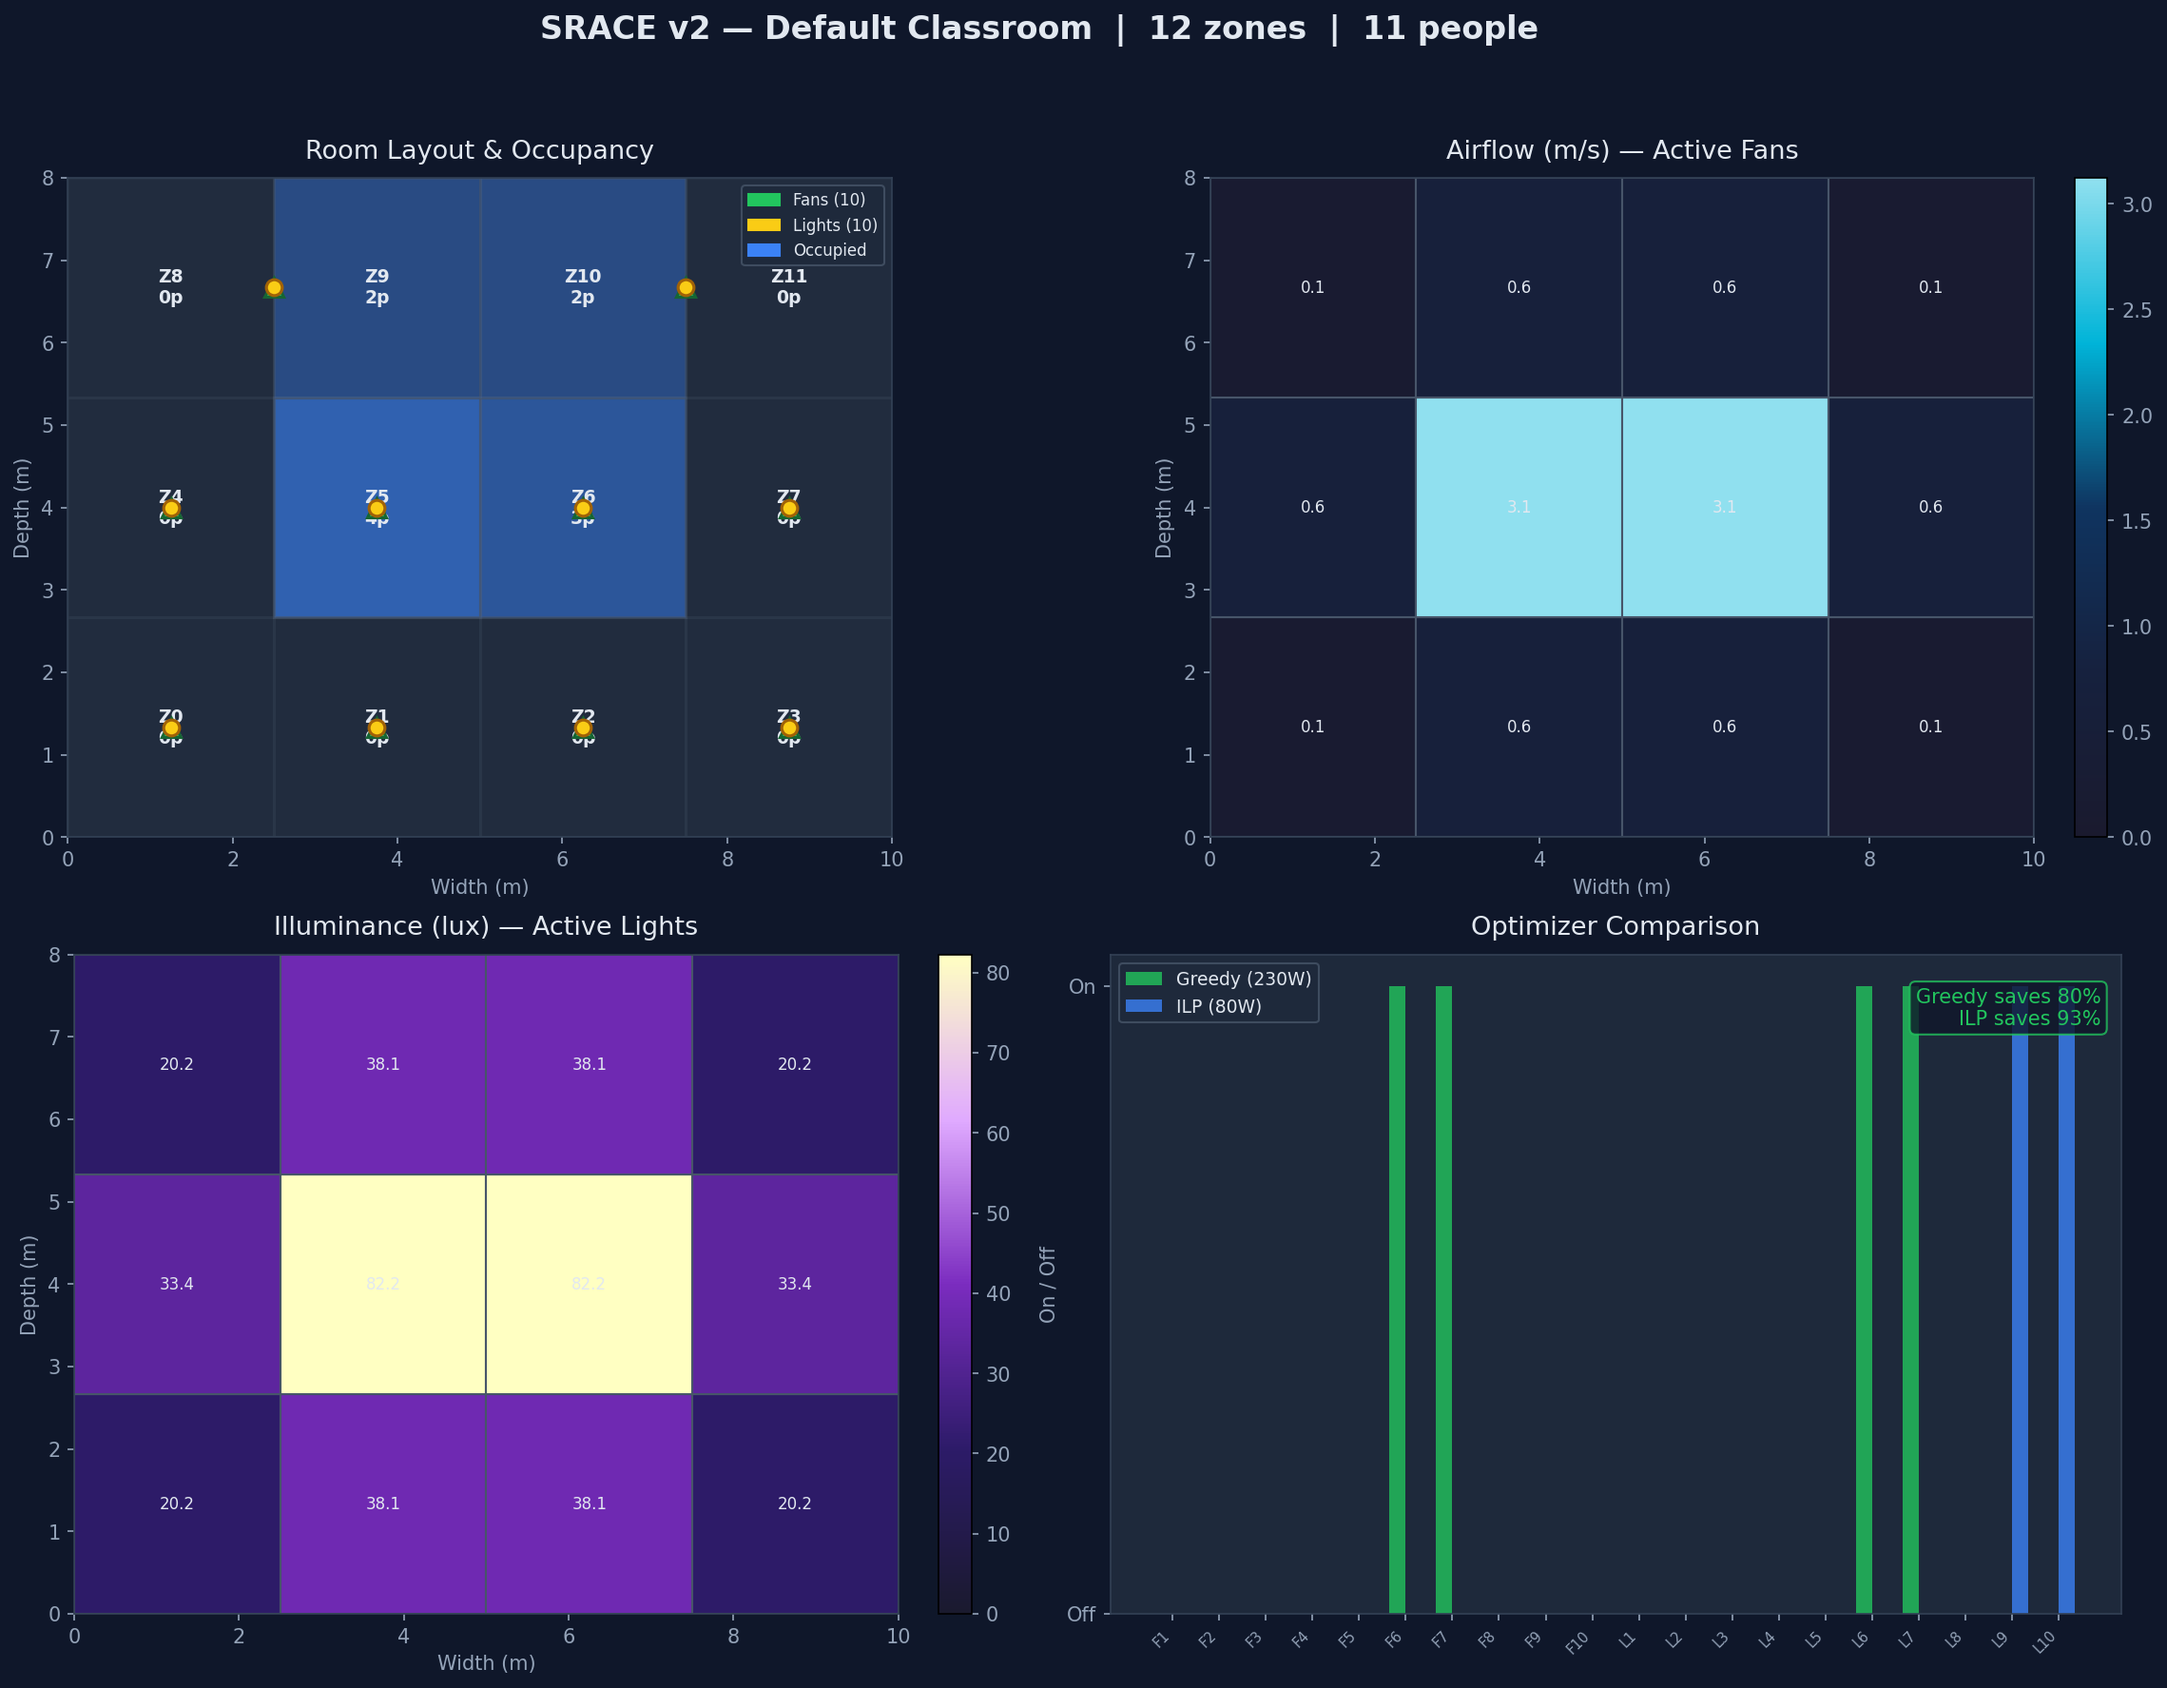
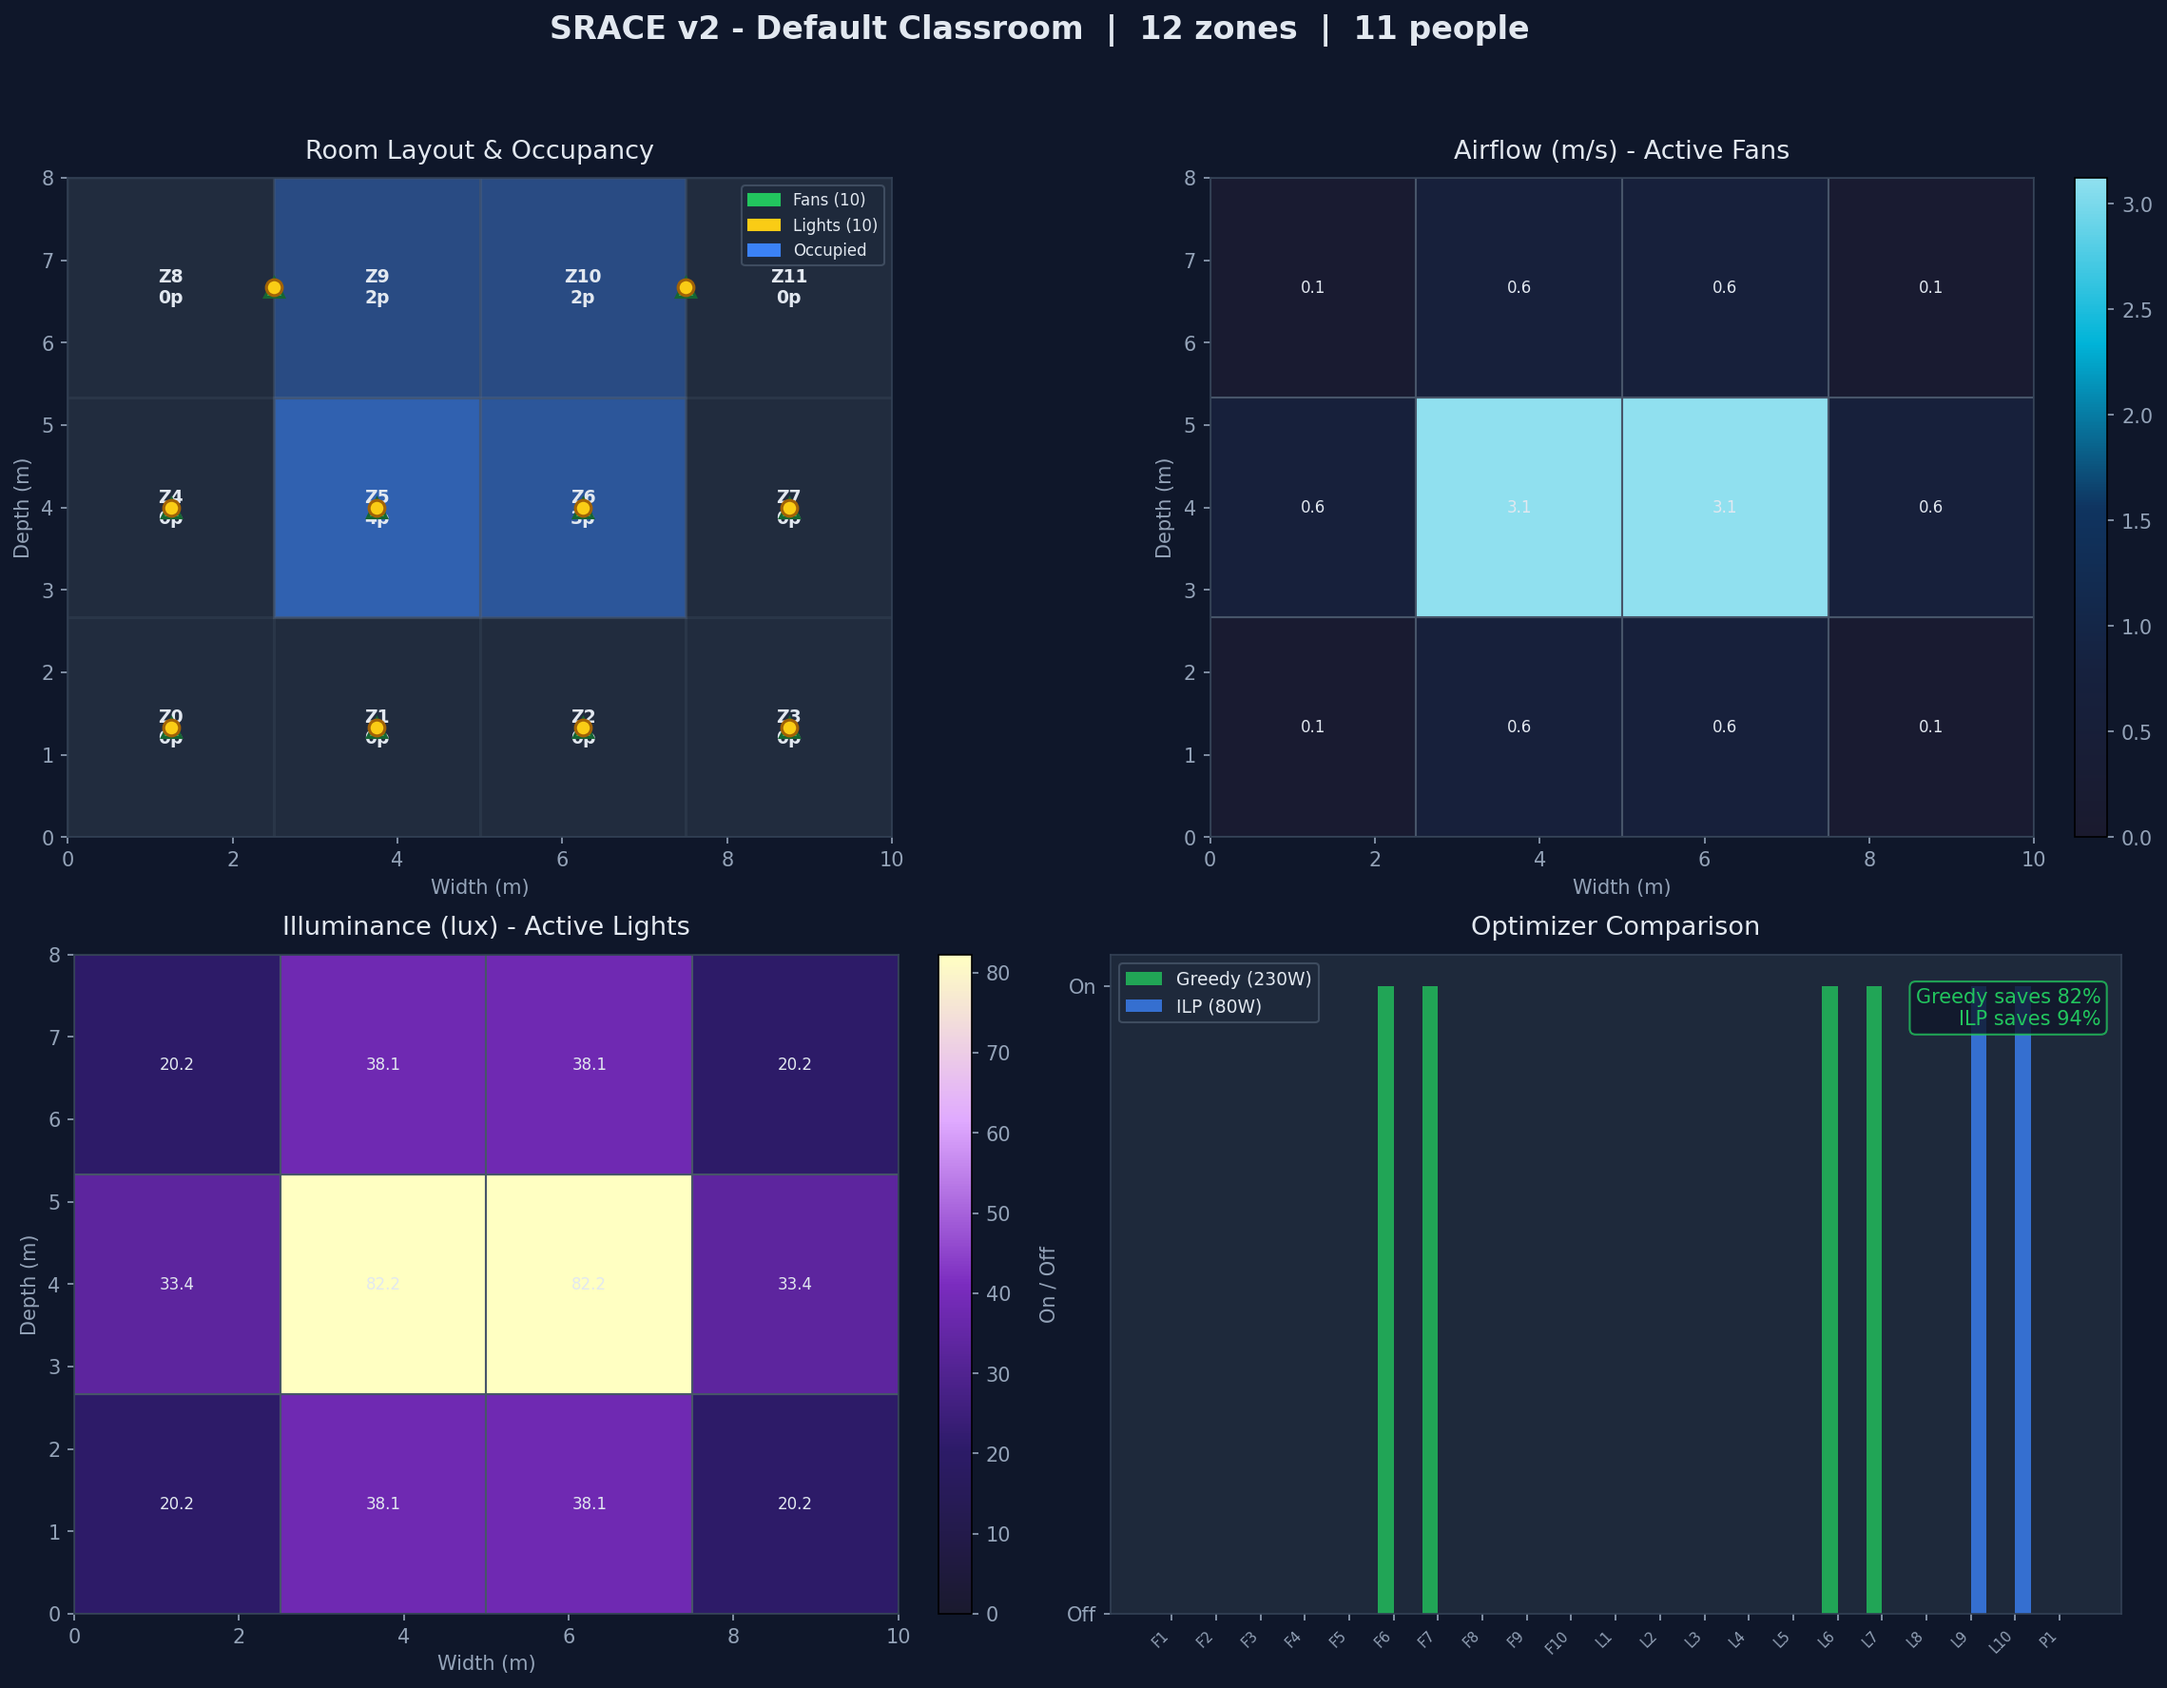
Update scripts to use standard hyphens and push fresh images

diff --git a/visualization/room_grid.py b/visualization/room_grid.py
@@ -107,7 +107,7 @@ def _draw_optimizer_comparison(ax, cfg, greedy, ilp):
 def render_room_state(cfg, coverage, zone_occupancy, greedy_result, ilp_result,
                       airflow_matrix, lux_matrix, save_path=None, show=True):
     fig, axes = plt.subplots(2, 2, figsize=(16, 12))
-    fig.suptitle(f"SRACE v2 — {cfg.name}  |  {cfg.n_zones} zones  |  "
+    fig.suptitle(f"SRACE v2 - {cfg.name}  |  {cfg.n_zones} zones  |  "
                  f"{int(zone_occupancy.sum())} people",
                  fontsize=16, fontweight="bold", color="#e2e8f0")
     fig.patch.set_facecolor("#0f172a")
@@ -118,9 +118,9 @@ def render_room_state(cfg, coverage, zone_occupancy, greedy_result, ilp_result,
 
     _draw_room_layout(axes[0, 0], cfg, zone_occupancy)
     _draw_heatmap(axes[0, 1], cfg, airflow_matrix, greedy_result["selected_indices"],
-                  AIRFLOW_CMAP, "Airflow (m/s) — Active Fans", is_fan=True)
+                  AIRFLOW_CMAP, "Airflow (m/s) - Active Fans", is_fan=True)
     _draw_heatmap(axes[1, 0], cfg, lux_matrix, greedy_result["selected_indices"],
-                  LUX_CMAP, "Illuminance (lux) — Active Lights", is_fan=False)
+                  LUX_CMAP, "Illuminance (lux) - Active Lights", is_fan=False)
     _draw_optimizer_comparison(axes[1, 1], cfg, greedy_result, ilp_result)
     plt.tight_layout(rect=[0, 0, 1, 0.95])
     if save_path:

diff --git a/visualize_results.py b/visualize_results.py
@@ -90,7 +90,7 @@ def main():
     data = run_ppo_episode_detailed(model, env, "sparse", seed=42)
 
     fig, axes = plt.subplots(2, 2, figsize=(14, 8))
-    fig.suptitle("SRACE PPO Agent — Sparse Occupancy (3/12 zones)",
+    fig.suptitle("SRACE PPO Agent - Sparse Occupancy (3/12 zones)",
                  fontsize=16, fontweight="bold", color="#58a6ff")
 
     steps = range(len(data["power"]))
@@ -141,7 +141,7 @@ def main():
     data_full = run_ppo_episode_detailed(model, env, "full", seed=42)
 
     fig, axes = plt.subplots(2, 2, figsize=(14, 8))
-    fig.suptitle("SRACE PPO Agent — Full Occupancy (12/12 zones, 60 people)",
+    fig.suptitle("SRACE PPO Agent - Full Occupancy (12/12 zones, 60 people)",
                  fontsize=16, fontweight="bold", color="#f85149")
 
     steps = range(len(data_full["power"]))
@@ -210,7 +210,7 @@ def main():
 
     # Bar chart
     fig, (ax1, ax2) = plt.subplots(1, 2, figsize=(14, 6))
-    fig.suptitle("SRACE — PPO vs Baselines (10 Random Episodes)",
+    fig.suptitle("SRACE - PPO vs Baselines (10 Random Episodes)",
                  fontsize=16, fontweight="bold", color="#58a6ff")
 
     strategies = ["PPO Agent", "All ON", "All OFF", "Random"]
